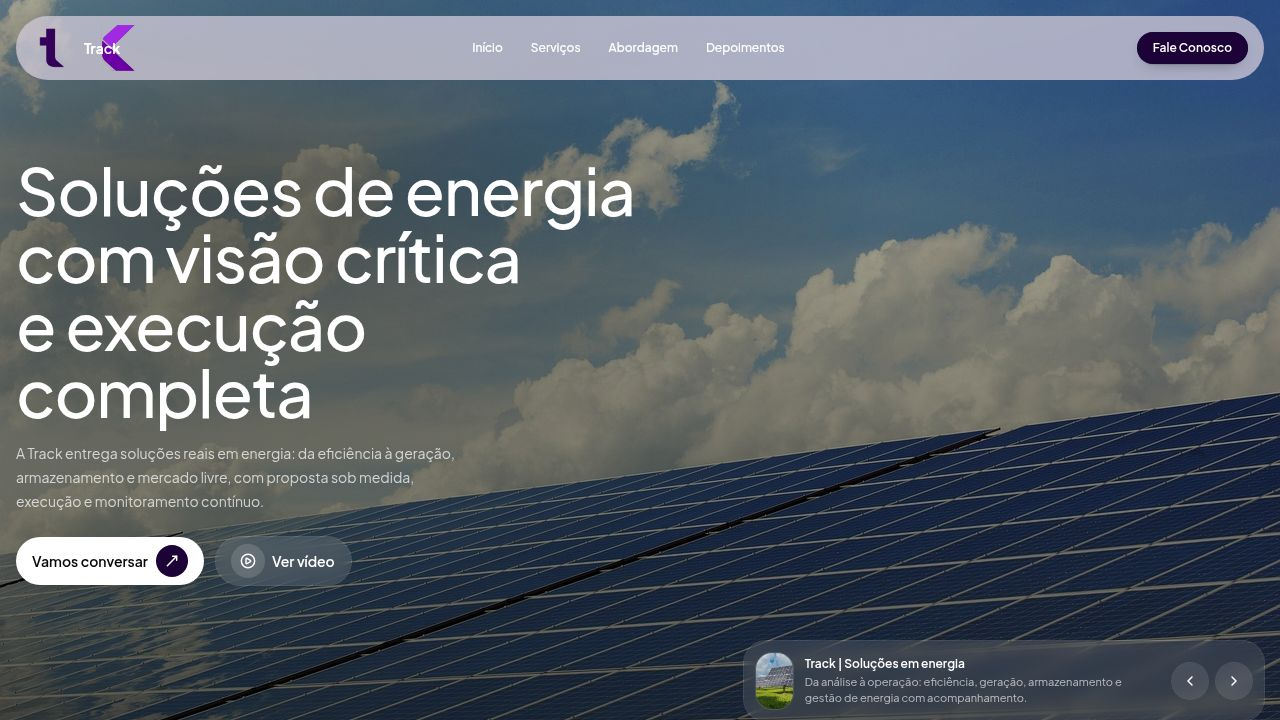
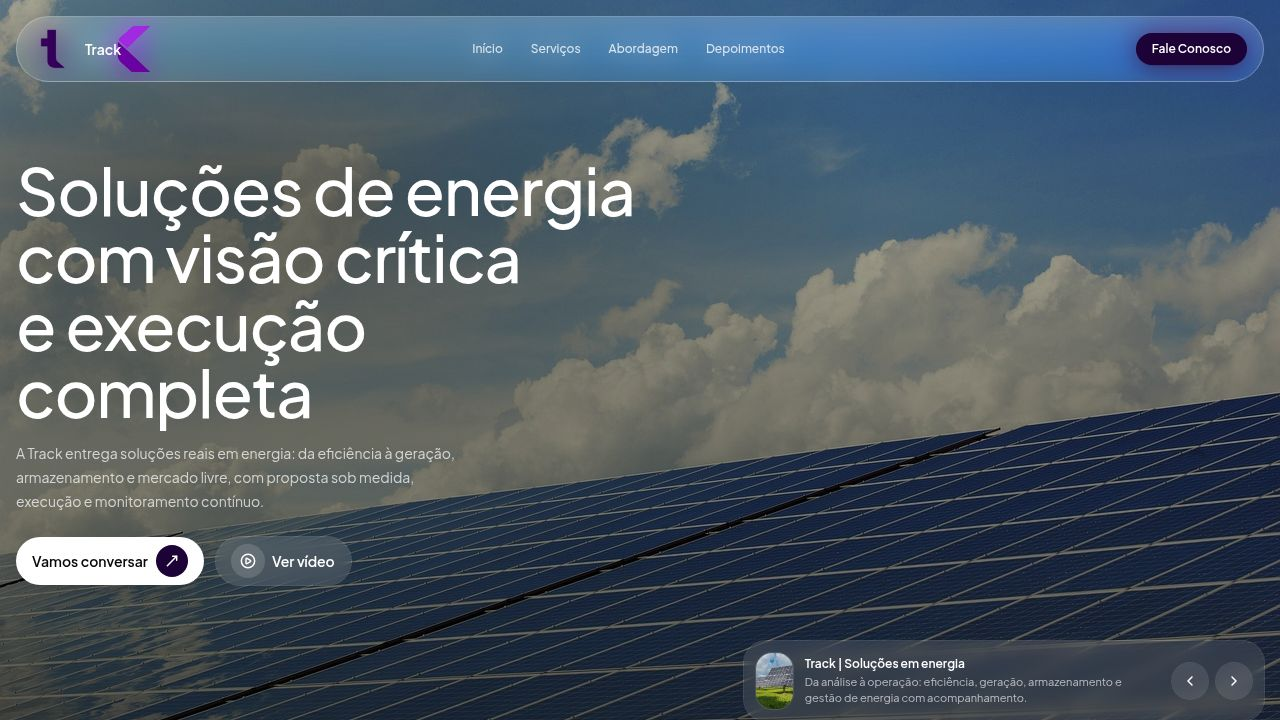
Update header styling to remove unwanted visual effects
Modify the 'glass' class to 'glass-header' in site-shell.tsx and landing.tsx to refine the header's visual appearance, removing a halo effect.

Replit-Commit-Author: Agent
Replit-Commit-Session-Id: cd7f25f6-1381-48f5-958d-7caa7fa8ba4c
Replit-Commit-Checkpoint-Type: full_checkpoint
Replit-Commit-Event-Id: 33f30577-0353-434a-a459-c6d158b5d64b
Replit-Commit-Screenshot-Url: https://storage.googleapis.com/screenshot-production-us-central1/eede4cac-3f58-423c-a1e9-f071d8b2dafc/cd7f25f6-1381-48f5-958d-7caa7fa8ba4c/Ab6xicc
Replit-Helium-Checkpoint-Created: true

Changed region(s): [[0.0, 0.0, 1.0, 0.1222]]

diff --git a/client/src/components/site-shell.tsx b/client/src/components/site-shell.tsx
@@ -185,7 +185,7 @@ export function SiteHeader({ onContact }: { onContact: () => void }) {
         <div
           ref={headerRef}
           data-testid="header-shell"
-          className="glass relative mt-4 flex items-center justify-between overflow-hidden rounded-full px-4 py-3"
+          className="glass-header relative mt-4 flex items-center justify-between overflow-hidden rounded-full px-4 py-3"
         >
           {!arrowGone ? (
             <div data-testid="anim-arrow-layer" className="pointer-events-none absolute inset-0">

diff --git a/client/src/pages/landing.tsx b/client/src/pages/landing.tsx
@@ -294,7 +294,7 @@ function Nav({ onContact }: { onContact: () => void }) {
         <div
           ref={headerRef}
           data-testid="header-shell"
-          className="glass relative mt-4 flex items-center justify-between overflow-hidden rounded-full px-4 py-3"
+          className="glass-header relative mt-4 flex items-center justify-between overflow-hidden rounded-full px-4 py-3"
         >
           {/* Seta (imagem anexada) percorre todo o header até a logo e some ao chegar */}
           {!arrowGone ? (
